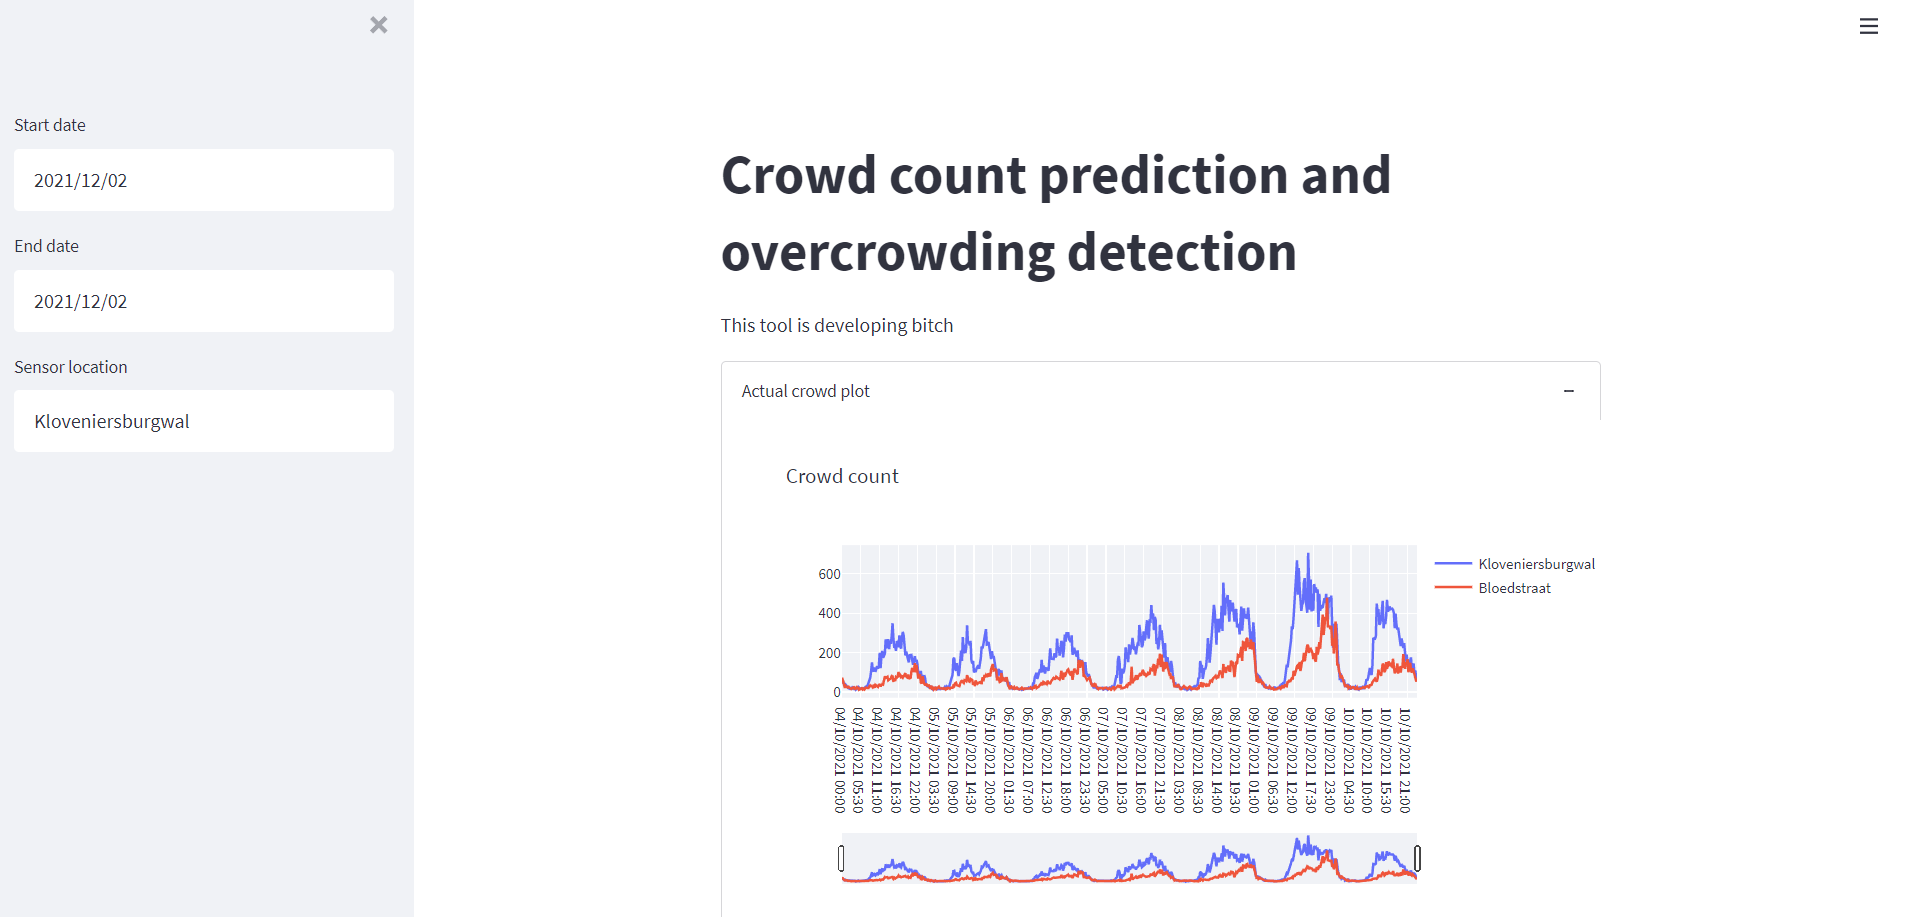
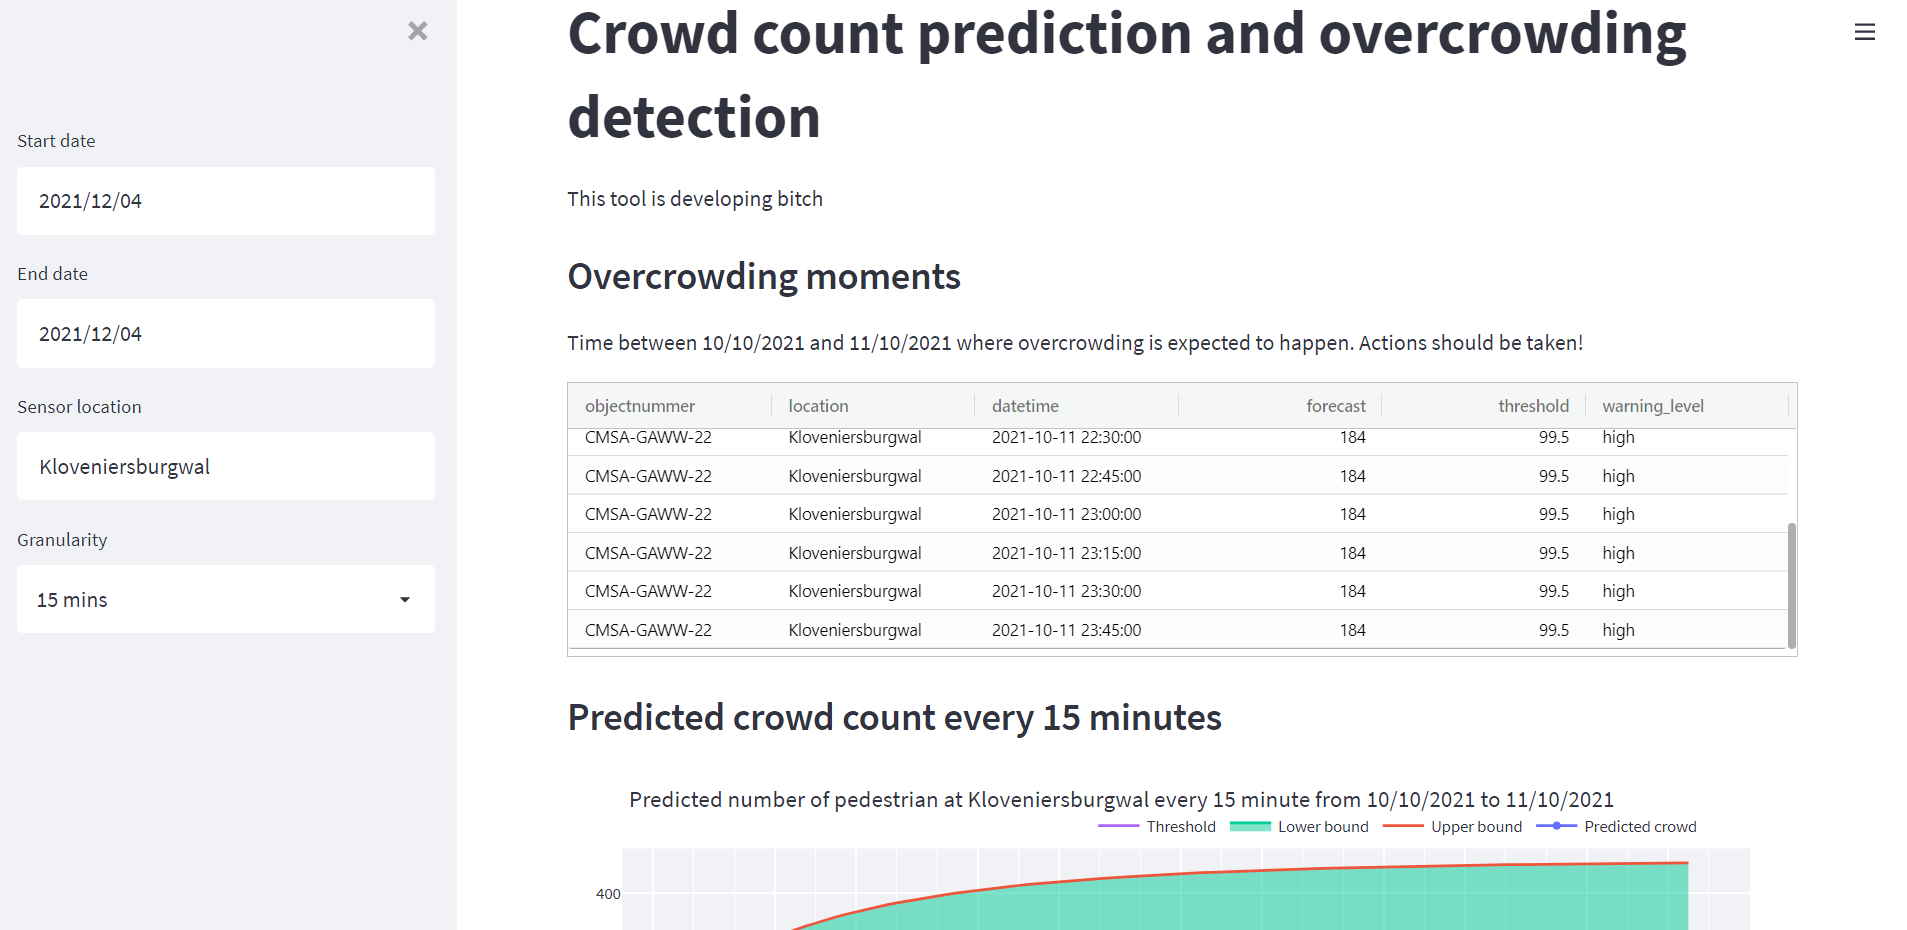
update readme

diff --git a/app.py b/app.py
@@ -26,7 +26,7 @@ st.markdown(
 start_date = st.sidebar.date_input("Start date", datetime.date.today())
 end_date = st.sidebar.date_input("End date", datetime.date.today())
 sensor = st.sidebar.text_input("Sensor location", "Kloveniersburgwal")
-granularity= st.sidebar.st.sidebar.selectbox("Granularity", ("15 mins", "30 mins", "hour"))
+granularity= st.sidebar.selectbox("Granularity", ("15 mins", "30 mins", "hour"))
 
 # Prepare the data
 sensor1 = pd.read_csv("result/CMSA-GAWW-22_forecast.csv", index_col="Unnamed: 0")

diff --git a/README.md b/README.md
@@ -1,6 +1,7 @@
 # Crowd count prediction and dashboard
 
-## Quick run
+## Development
+Make sure `virtualenv` is installed on your machine. Then do these following steps: 
 
 - ```virtualenv venv -p python3.7```
 
@@ -8,6 +9,10 @@
 
 - ```pip install -r requirements.txt```
 
-Go to src directory:
+Go to src directory, run this from the shell/terminal:
 
 - ```streamlit run app.py```
+
+You should see this pop up.
+
+![](img/first_look.png)
